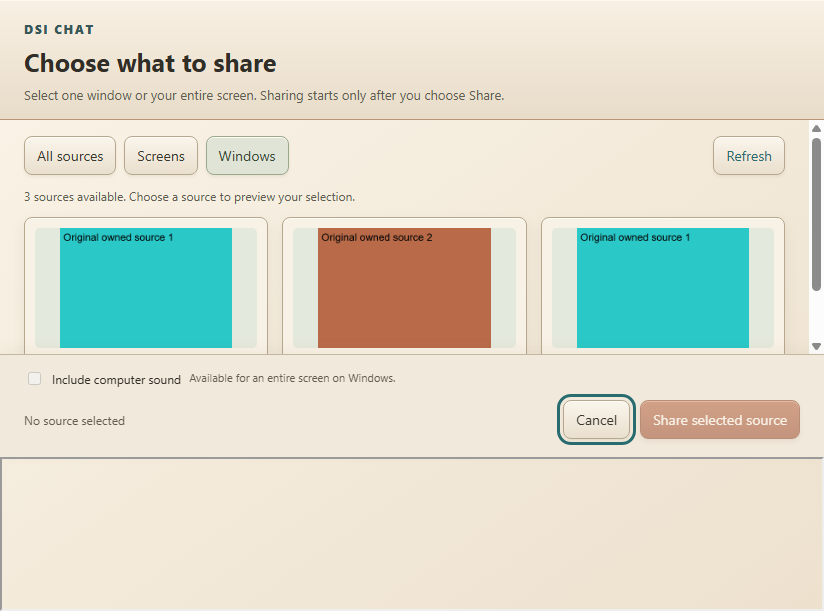
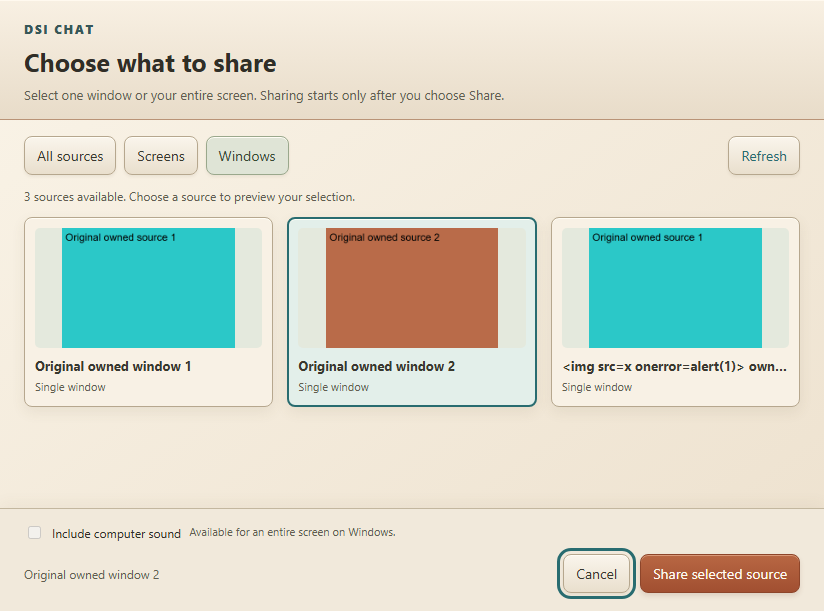
docs: record final centralized-policy and picker review [skip ci]

diff --git a/docs/CODEX_HANDOFF.md b/docs/CODEX_HANDOFF.md
@@ -47,7 +47,7 @@ No upstream engines/plugins were vendored into this branch. Prior upstream expos
 
 ## Continue next
 
-Current candidate: original Copperlight screen picker plus early public-media guard and centralized application permissions. Read docs/PERMISSIONS.md and security/AGENTS.md; all application permission defaults belong in security/permissions.json, and browser/Android package scopes are generated from it. Unknown/unsafe rules fail closed. Guarded modern capture requires registration/verification before official scripts, current origin/frame/document and explicit local selection; legacy capture remains denied by a JavaScript guard, not a native boundary. Live Discord/camera delivery remains unverified. Review/publication evidence will appear above older STATE.md entries. Preserve running calls and installed profiles during staging.
+Current reviewed release: original Copperlight screen picker plus early public-media guard and centralized application permissions. Read docs/PERMISSIONS.md and security/AGENTS.md; all application permission defaults belong in security/permissions.json, and browser/Android package scopes are generated from it. Unknown/unsafe rules fail closed. Guarded modern capture requires registration/verification before official scripts, current origin/frame/document and explicit local selection; legacy capture remains denied by a JavaScript guard, not a native boundary. Live Discord/camera delivery remains unverified. Final runtime7e90b8d passed browser/Linux37162839792, Windows/native37162839785, Manager37162839802 and Pages review37162841407. Release v0.4.0-dev.3 supersedes the previous Windows release; exact publication/install evidence belongs at the top of STATE.md. Preserve running calls and installed profiles during staging.
 
 Latest published Windows update: v0.4.0-dev.2, release source7c48988/runtime977f0ba. Review37157846447/37157848822/37157851162 and original-branch publication37158351378/37158351352/37158351411 pass. Public release assets and all23 site/seven extension payload hashes match reviewed bytes. The exact246-payload ZIP is installed separately with Desktop/Start Menu shortcuts updated; existing DSI processes/call were left running. After finishing the call, close old DSI and use its shortcut to open the new version. Retest larger text/Safe mode and camera in the owned acceptance destination. Screen sharing uses the explicit normal-browser fallback until an enforceable embedded source gate exists. See STATE.md for exact hashes and evidence.
 
@@ -75,7 +75,7 @@ The current UI/UX is locked. Preserve the published second enhancement baseline 
 
 Developer setup: `npm ci --ignore-scripts`, `npm run tools:setup`, `npm run tools:doctor`; add `-- --android` for the prepared portable Windows tools. Tooling instructions/pins and deferred native prerequisites are in `docs/TOOLCHAIN.md`.
 
-Required local checks: `npm test`, `npm run catalog`, `npm run build`, `node scripts/site.mjs`, `git diff --check`. Current root baseline:43 tests passing; workbench/native suites are separate. Do not add implementation-mirroring tests for small visual changes. Run meaningful tests for new behavior.
+Required local checks: `npm test`, `npm run catalog`, `npm run build`, `node scripts/site.mjs`, `git diff --check`. Current root baseline:46 tests passing; workbench/native suites are separate. Do not add implementation-mirroring tests for small visual changes. Run meaningful tests for new behavior.
 
 Use a review branch and dispatch `.github/workflows/pages.yml` with `review_only: true` against it. This builds/tests/screenshots without publishing. Download `dsi-messenger-screenshots`, inspect desktop (especially 1440x844), Dark/Daytime/High contrast and 390/768 views, plus changed dialogs/states. Correct defects before advancing the publishing branch. Preserve composer visibility, all four sample contacts on the ordinary desktop viewport, draft isolation, safe text rendering, native modal focus return and reduced-motion choices.
 

diff --git a/README.md b/README.md
@@ -4,7 +4,7 @@ Dead Signal Interactive's original Discord customization toolkit. Continue on `c
 
 The approved [Copperlight preview](https://raiinman.github.io/DSI-CHAT/) remains locked. This release builds the original mod engine and developer tools behind that direction. Vencord, Equicord, Vendetta and Revenge provide capability references; their engines/plugins are not merged or vendored.
 
-The [Windows v0.4.0-dev.2 download](https://github.com/raiinman/DSI-CHAT/releases/tag/v0.4.0-dev.2) gives the launcher and IDE the same Copperlight palette. Updated Windows plugin attachment works under a strict page style policy, accepts semantic-main markup and retains reversible Safe mode. Camera compatibility is pending live retesting. The launcher can open Discord in your normal browser for screen sharing; the embedded host keeps capture blocked until a chosen-source gate can be enforced safely.
+The [Windows v0.4.0-dev.3 download](https://github.com/raiinman/DSI-CHAT/releases/tag/v0.4.0-dev.3) gives the launcher and IDE the same Copperlight palette. Updated Windows plugin attachment works under a strict page style policy, accepts semantic-main markup and retains reversible Safe mode. Camera compatibility is pending live retesting. The embedded host now provides an explicit Copperlight screen/window picker behind a verified early media guard. Controlled sharing passes; live Discord delivery remains pending. The normal-browser handoff remains available.
 
 ## Delivered development tools
 
@@ -44,7 +44,7 @@ The [Manager guide](android/manager/README.md) covers phone-only setup and the o
 
 This is a development toolkit, not complete parity with hundreds of reference plugins. Native Discord services, actual Android client attachment, production signing and upstream package compatibility remain unfinished. Discord provides messaging; the separate Copperlight page uses fictional in-memory conversations.
 
-The next phase preserves Discord's native functionality and tests real attachment, following the [live integration plan and acceptance ledger](docs/LIVE_INTEGRATION_PLAN.md). Runtime Inspect reports DOM presence without private text/identifiers; matching targets do not prove effects or parity. The [latest Windows development download](https://github.com/raiinman/DSI-CHAT/releases/tag/v0.4.0-dev.2) includes Copperlight tools, strict-policy plugin attachment, scoped camera compatibility, native device approval, confirmed HTTPS links and reload/recovery. Embedded screen sharing remains blocked until chosen-source approval can be enforced safely; the launcher offers a deliberate normal-browser fallback. Android Manager remains at the unchanged v0.3.0-dev.2 release above.
+The next phase preserves Discord's native functionality and tests real attachment, following the [live integration plan and acceptance ledger](docs/LIVE_INTEGRATION_PLAN.md). Runtime Inspect reports DOM presence without private text/identifiers; matching targets do not prove effects or parity. The [latest Windows development download](https://github.com/raiinman/DSI-CHAT/releases/tag/v0.4.0-dev.3) includes Copperlight tools, strict-policy plugin attachment, scoped camera compatibility, native device approval, confirmed HTTPS links and reload/recovery. Embedded screen sharing remains blocked until chosen-source approval can be enforced safely; the launcher offers a deliberate normal-browser fallback. Android Manager remains at the unchanged v0.3.0-dev.2 release above.
 
 See [architecture](docs/ARCHITECTURE.md), [implementation plan](docs/IMPLEMENTATION_PLAN.md), [validation](docs/STATE.md), [controlled security review](docs/SECURITY_REVIEW.md) and [provenance](docs/PROVENANCE.md). [DOX](AGENTS.md) governs documentation; its [MIT notice](docs/DOX_LICENSE.txt) does not relicense DSI source. No open-source license grant has been selected for original DSI source; [NOTICE.md](NOTICE.md) records ownership limits. Preserve all shipped third-party notices.
 

diff --git a/docs/STATE.md b/docs/STATE.md
@@ -1,6 +1,6 @@
 # Current state
 
-## Central permissions and Copperlight picker candidate — October 3
+## Central permissions and Copperlight picker release — October 3
 
 Application permission defaults now live in security/permissions.json, with strict validation and browser/Android package generation. Unknown/unsafe edits fail closed. Windows local launcher/IDE permissions are explicitly denied rather than inheriting Electron defaults; original host media, IPC roles, preview transport and updater trust scopes consume the same policy. docs/PERMISSIONS.md maps enforcement and supported tightening. Native approval, source/window/frame/document identity and installer integrity/signer/version checks remain required. Picker-selected titles are redacted to DSI selected source in native stream metadata. Prevented external navigation attempts preserve the trusted host/call; actual lost origin/document identity closes it.
 
@@ -10,7 +10,7 @@ Local validation: root46 tests; picker3; combined workbench/picker23 passed with
 
 Standalone guard1791070285853 covers legacy aliases/prototypes/fresh realms, getters/proxies, prototype/iterator pollution, captured verification, named installation exceptions and selected owned frames. Integrated picker1791070783365 passes actual Cancel/Share, filtering/audio reset, refreshed stale tokens, rogue/subframe callers, empty-source recovery, pending navigation cancellation, named guard exception and active debugger detach destruction. Selected track labels are generic; native stream settings still expose the selected source identifier. Repeated camera requests receive distinct approvals; both confirmed/cancelled blocked external attempts preserve active capture and subsequent sharing, while actual origin loss destroys the host. Root inspected Copperlight picker at normal and580x460 sizes plus decoded terracotta owned-window frames. QA enumerates outside windows only with zero thumbnails and materializes previews exclusively from its original owned fixtures; no live-account or third-party source image is retained.
 
-Review CI, final package/publication and installation evidence remain pending for this candidate; the following v0.4.0-dev.2 entry describes the previous release.
+Final runtime7e90b8d passed browser/Linux37162839792, full Windows/native37162839785, Manager installer/updater adversarial37162839802 and review-only Pages37162841407. Actual rendered Windows picker, decoded owned frames, launcher/IDE, unchanged messenger themes/responsive states and Manager native approval/recovery captures were inspected. Release v0.4.0-dev.3 packages255 verified payloads; ZIP172138497 bytes, SHA-256d18b5b48c536a4a37168019c1186fbbbc77984ba3fe32f525303f5e59b2982d4. Publication/install closeout follows after exact-byte verification. The following v0.4.0-dev.2 entry describes the previous release.
 
 ## Copperlight tools and scoped plugin repair — reviewed October 3
 

diff --git a/docs/ARCHITECTURE.md b/docs/ARCHITECTURE.md
@@ -12,7 +12,7 @@ The Chromium adapter uses a statically declared isolated-world content script on
 
 Pinned esbuild bundles current isolated content/popup entries and a DSIPlugins IIFE for controlled hosts. The extension ships no external npm runtime dependency, remote code, telemetry or upstream updater. Twelve built-ins are disabled by default. The v2 chrome.storage.local record migrates the three legacy choices; safe mode preserves them. DOM tooltip plugins restore owned titles, observe URL/date changes and release detached nodes.
 
-Windows uses Electron 44.5.1 with sandboxed/context-isolated local windows and guarded IPC. An explicitly opened official Discord web window has no Node/preload and receives reviewed display modules in an isolated world. Its dedicated session gates device approval to the exact official main frame, revokes pending approvals on document navigation and confirms external HTTPS links in the system browser. Host states expose loading, readiness, errors, closure and reload/retry without account contents. Screen capture is denied: media prepermission also authorizes a legacy direct-capture path that bypasses a source chooser. Offline fixture and packaged executable smoke establish the adapter. The user subsequently confirmed live message delivery and voice audio in installed v0.4.0-dev.1; camera has an unsupported-browser gate and comprehensive live parity/installed-Discord injection remain unverified.
+Windows uses Electron 44.5.1 with sandboxed/context-isolated local windows and guarded IPC. An explicitly opened official Discord web window has no Node/preload and receives reviewed display modules in an isolated world. Its dedicated session gates device approval to the exact official main frame, revokes pending approvals on document navigation and confirms external HTTPS links in the system browser. Host states expose loading, readiness, errors, closure and reload/retry without account contents. Modern screen capture requires a verified early public-media guard and explicit local picker selection. Legacy direct-capture constraints are rejected; guard loss closes the remote host. This JavaScript guard is defense in depth, not a native Chromium security boundary. Offline fixture and packaged executable smoke establish the adapter. The user subsequently confirmed live message delivery and voice audio in installed v0.4.0-dev.1; camera has an unsupported-browser gate and comprehensive live parity/installed-Discord injection remain unverified.
 
 Browser Inspect includes fixed-key DOM existence observations on exact official channel routes, without reading text, identifiers or private URLs. All effects and live parity remain unverified. Context-dependent missing targets are reported rather than interpreted as failures. LIVE_INTEGRATION_PLAN.md owns ordered real-client work and the per-platform acceptance ledger.
 
